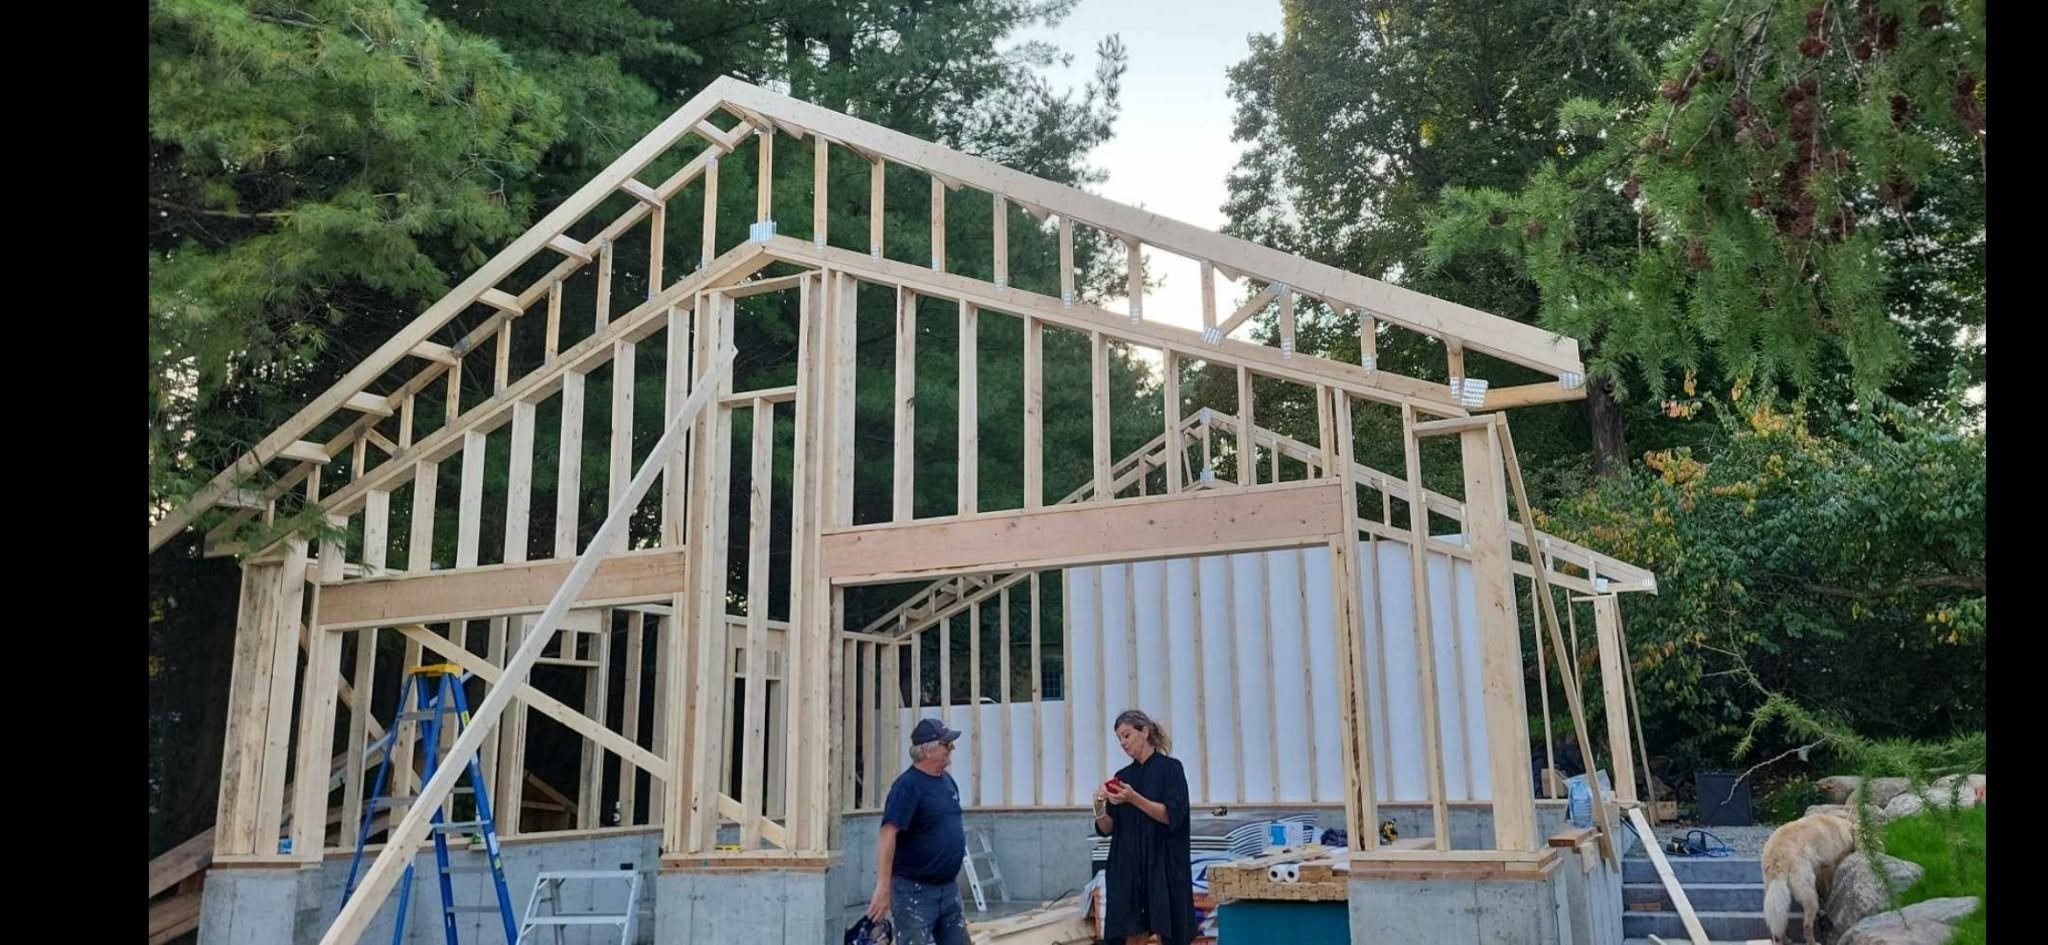
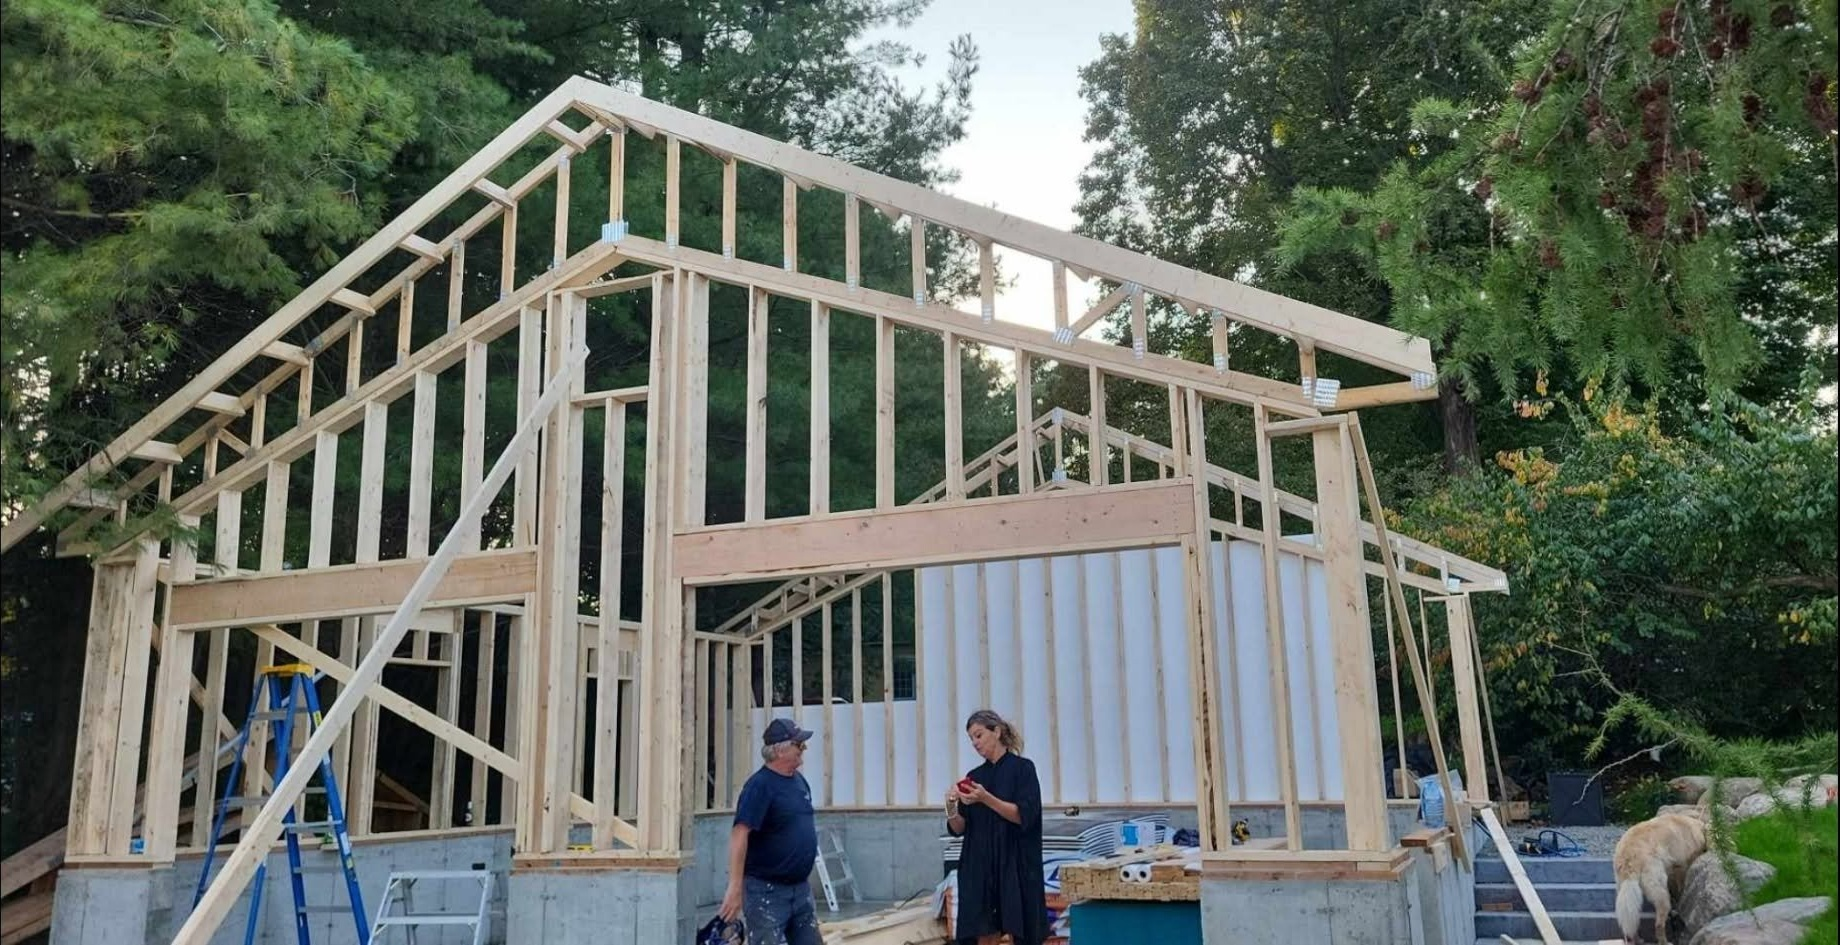
CM2: fix 3 issues - hero bg crop (black borders removed), trust-strip padding 50% less, service card hover symmetry (no translateY/flex-start, flexbox center handles balance)

diff --git a/construction-cm2-inc-entrepreneur-g-n-ral-saint-roch-de-richelieu/styles.css b/construction-cm2-inc-entrepreneur-g-n-ral-saint-roch-de-richelieu/styles.css
@@ -305,7 +305,7 @@ body {
    ═══════════════════════════════════════ */
 .trust-strip {
     background: var(--black-2);
-    padding: 4rem 5%;
+    padding: 2rem 5%;
     border-bottom: 1px solid rgba(255,255,255,0.06);
 }
 .trust-strip-grid {
@@ -480,11 +480,10 @@ body {
     flex-direction: column;
     justify-content: center;
     flex: 1;
-    transition: padding 0.45s ease, transform 0.45s ease;
+    transition: padding 0.4s ease;
 }
 .service-card:hover .service-card-content {
-    padding: 1.8rem 1.1rem;
-    transform: translateY(-24px);
+    padding: 1.4rem 1.1rem;
 }
 .service-card-number {
     font-family: var(--font-display);
@@ -518,14 +517,14 @@ body {
     line-height: 1.55;
     color: rgba(215,206,206,0.80);
     margin-bottom: 0.75rem;
-    transition: opacity 0.45s ease, transform 0.45s ease;
+    transition: max-height 0.4s ease, opacity 0.4s ease, margin 0.4s ease, padding 0.4s ease;
 }
 .service-card-details {
     padding: 0 1.1rem;
     max-height: 0;
     opacity: 0;
     overflow: hidden;
-    transition: max-height 0.5s ease, opacity 0.45s ease, padding 0.45s ease;
+    transition: max-height 0.4s ease, opacity 0.4s ease, padding 0.4s ease;
 }
 .service-card:hover .service-card-details {
     max-height: 300px;
@@ -533,9 +532,11 @@ body {
     padding: 0.4rem 1.1rem 0.15rem;
 }
 .service-card:hover .service-card-content p {
+    max-height: 0;
+    margin: 0;
+    padding: 0;
     opacity: 0;
-    transform: translateY(8px);
-    margin-bottom: 0.4rem;
+    overflow: hidden;
 }
 .service-card-details ul {
     list-style: none;
@@ -568,12 +569,10 @@ body {
     align-items: center;
     gap: 0.4rem;
     opacity: 0;
-    transform: translateY(10px);
-    transition: opacity 0.4s ease 0.15s, transform 0.4s ease 0.15s;
+    transition: opacity 0.35s ease 0.1s;
 }
 .service-card:hover .service-card-link {
     opacity: 1;
-    transform: translateY(0);
 }
 .service-card-link svg {
     width: 12px;